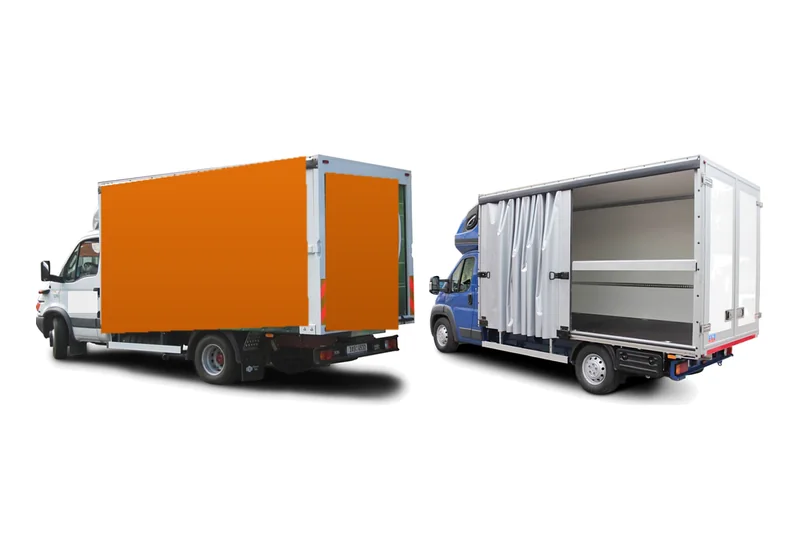
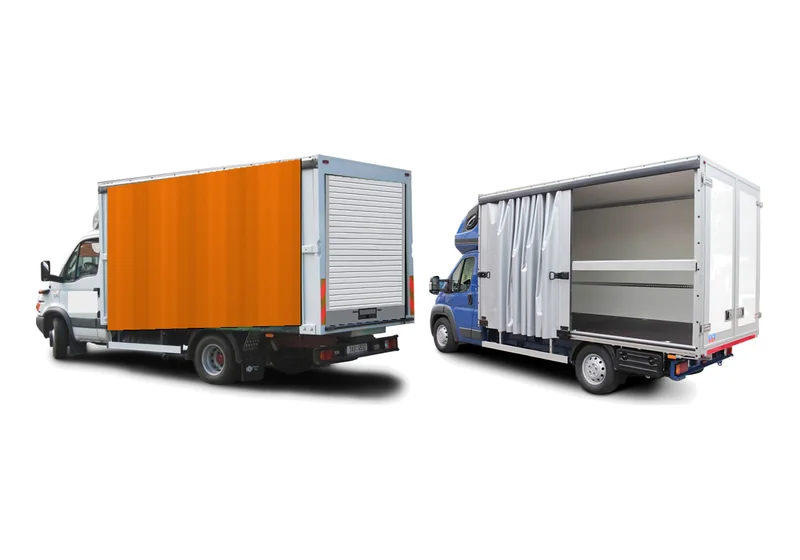
Italszállító KIT csoportkép: hátul rolóajtó alsó zárral, a ponyva és az ajtó a doboz kontúrjához igazítva
Claude-Session: https://claude.ai/code/session_01GqcGcrqDWYvNfyrVUkczEM

Changed region(s): [[0.125, 0.2732, 0.5312, 0.6071]]

diff --git a/scripts/csoportkepek.py b/scripts/csoportkepek.py
@@ -44,7 +44,7 @@ PHOTOS = {
                                       "../data/forras/hatso_ajto_4szarnyu_csoportkep.png"],
     # a Quadris által küldött dobozos felépítmény fotó (a háttérben álló dobozok nélkül, MI-vel nagyítva, élesítve)
     "zart-dobozos-es-hutos-profilok": ["../data/forras/dobozos_profilok_csoportkep.png"],
-    # a Quadris által küldött két italszállító fotó egymás mellett (a felső autó sörreklámja sötétnarancs ponyvára cserélve,
+    # a Quadris által küldött két italszállító fotó egymás mellett (a felső autó sörreklámja sötétnarancs ponyvára, hátul rolóajtóra (alsó zárral) cserélve,
     # MI-vel nagyítva, élesítve)
     "italszallito-kit": ["row", "../data/forras/italszallito_csoportkep_1.png", "../data/forras/italszallito_csoportkep_2.png"],
 }
